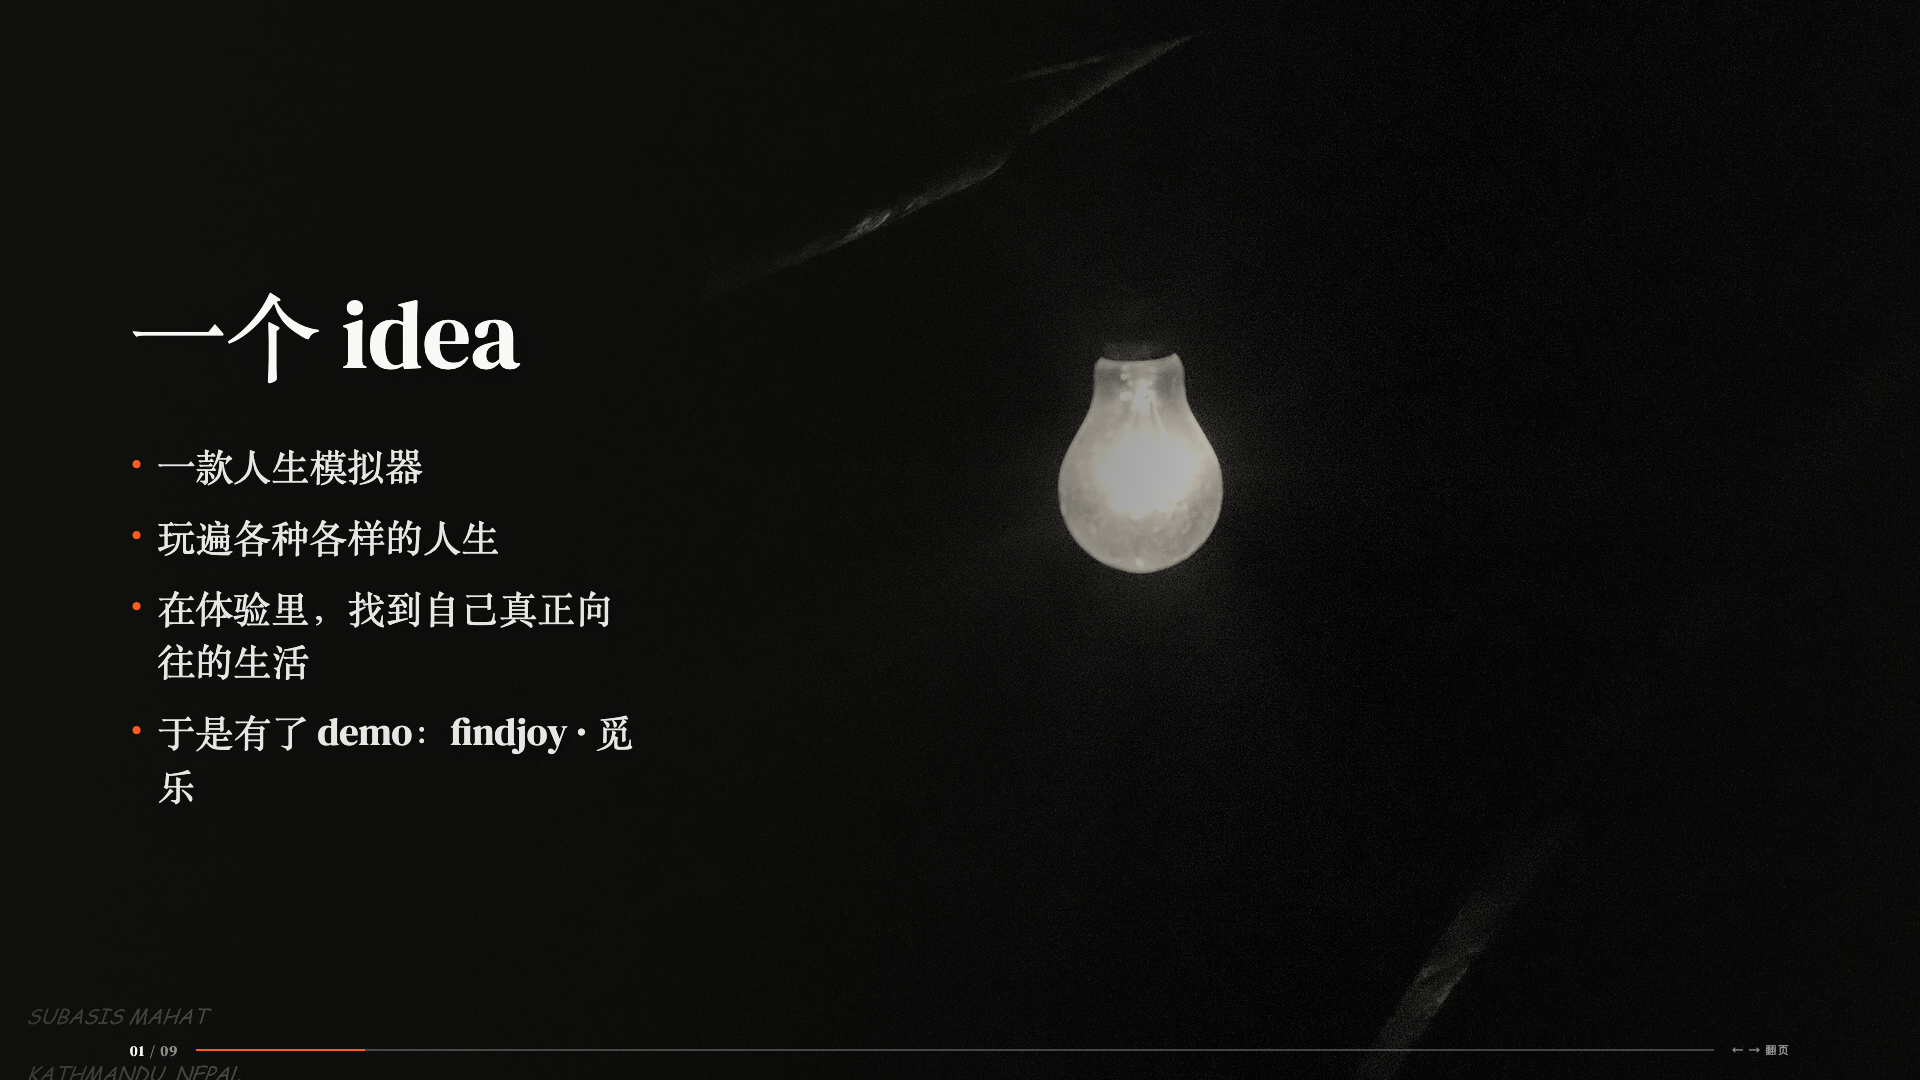
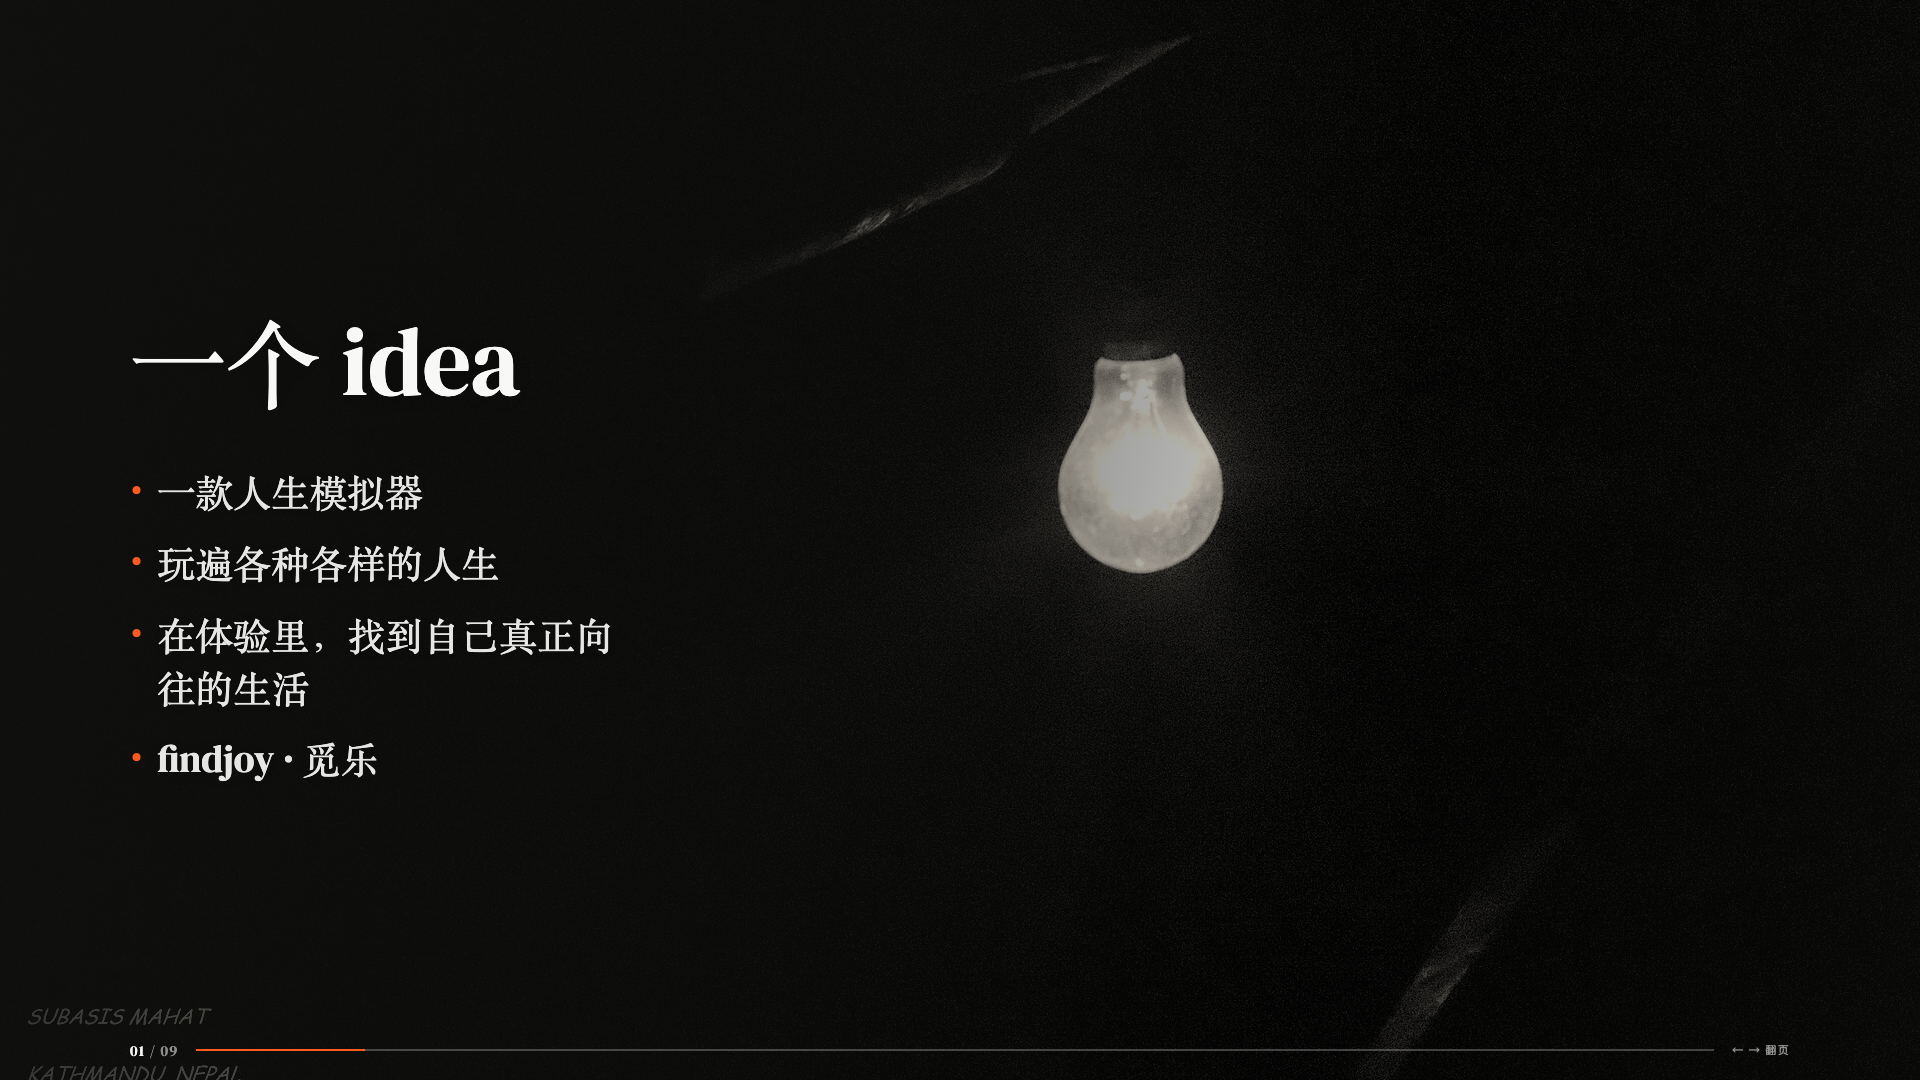
style:展示页第1页末条要点改为findjoy·觅乐

Changed region(s): [[0.0625, 0.3972, 0.3438, 0.7333], [0.0625, 0.275, 0.2812, 0.3667]]

diff --git a/app/showcase/ShowcaseDeck.tsx b/app/showcase/ShowcaseDeck.tsx
@@ -33,7 +33,7 @@ const narrativeSlides: NarrativeSlide[] = [
       "一款人生模拟器",
       "玩遍各种各样的人生",
       "在体验里，找到自己真正向往的生活",
-      "于是有了 demo：findjoy · 觅乐",
+      "findjoy · 觅乐",
     ],
     img: "deck-01-idea.jpg",
   },

diff --git a/docs/ui-design/showcase-ppt-2026-08-22/design-brief.md b/docs/ui-design/showcase-ppt-2026-08-22/design-brief.md
@@ -24,7 +24,7 @@
 ## 叙事拆页（8 + 1 页）
 | # | 文案（用户原文） | 配图主题 |
 |---|------------------|----------|
-| 01 | 浓缩要点页：一个 idea / 一款人生模拟器 / 玩遍各种各样的人生 / 在体验里，找到自己真正向往的生活 / 于是有了 demo：findjoy · 觅乐（原文不直接展示，口述为主） | 灯泡/灵感 |
+| 01 | 浓缩要点页：一个 idea / 一款人生模拟器 / 玩遍各种各样的人生 / 在体验里，找到自己真正向往的生活 / findjoy · 觅乐（原文不直接展示，口述为主） | 灯泡/灵感 |
 | 02 | 只保留：没有目标，没有数值，没有评判 | 年轮/树木截面 |
 | 03 | 这款产品的核心就是一次又一次的决策，整个人生故事线由ai驱动。 | 黑白国际象棋 |
 | 04 | 原 4+5 合并：根据用户的过往经历，以及当下所做的决定，来实时推演下一个节点发生的事。从而推动用户再次做出决策。 | 星轨/夜空节点 |
